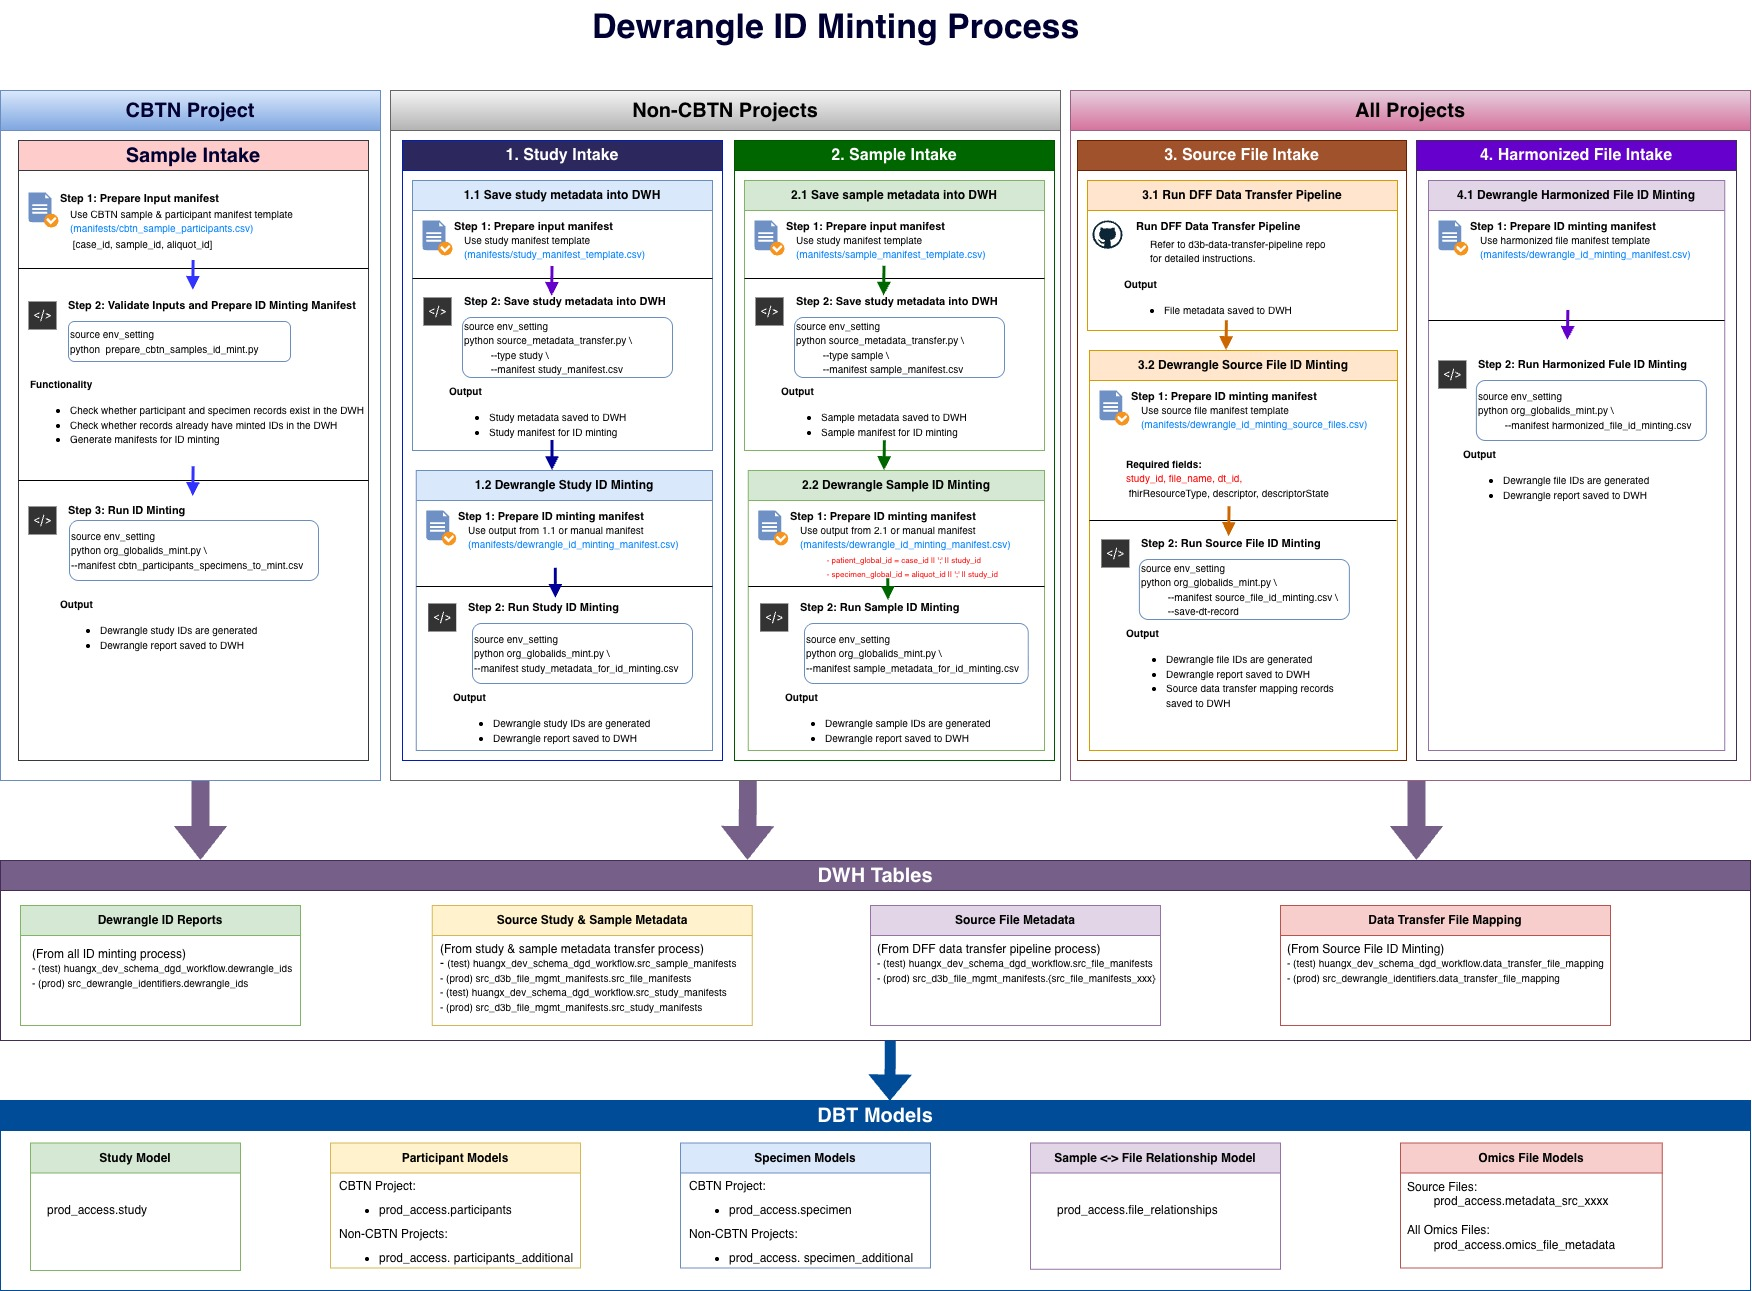
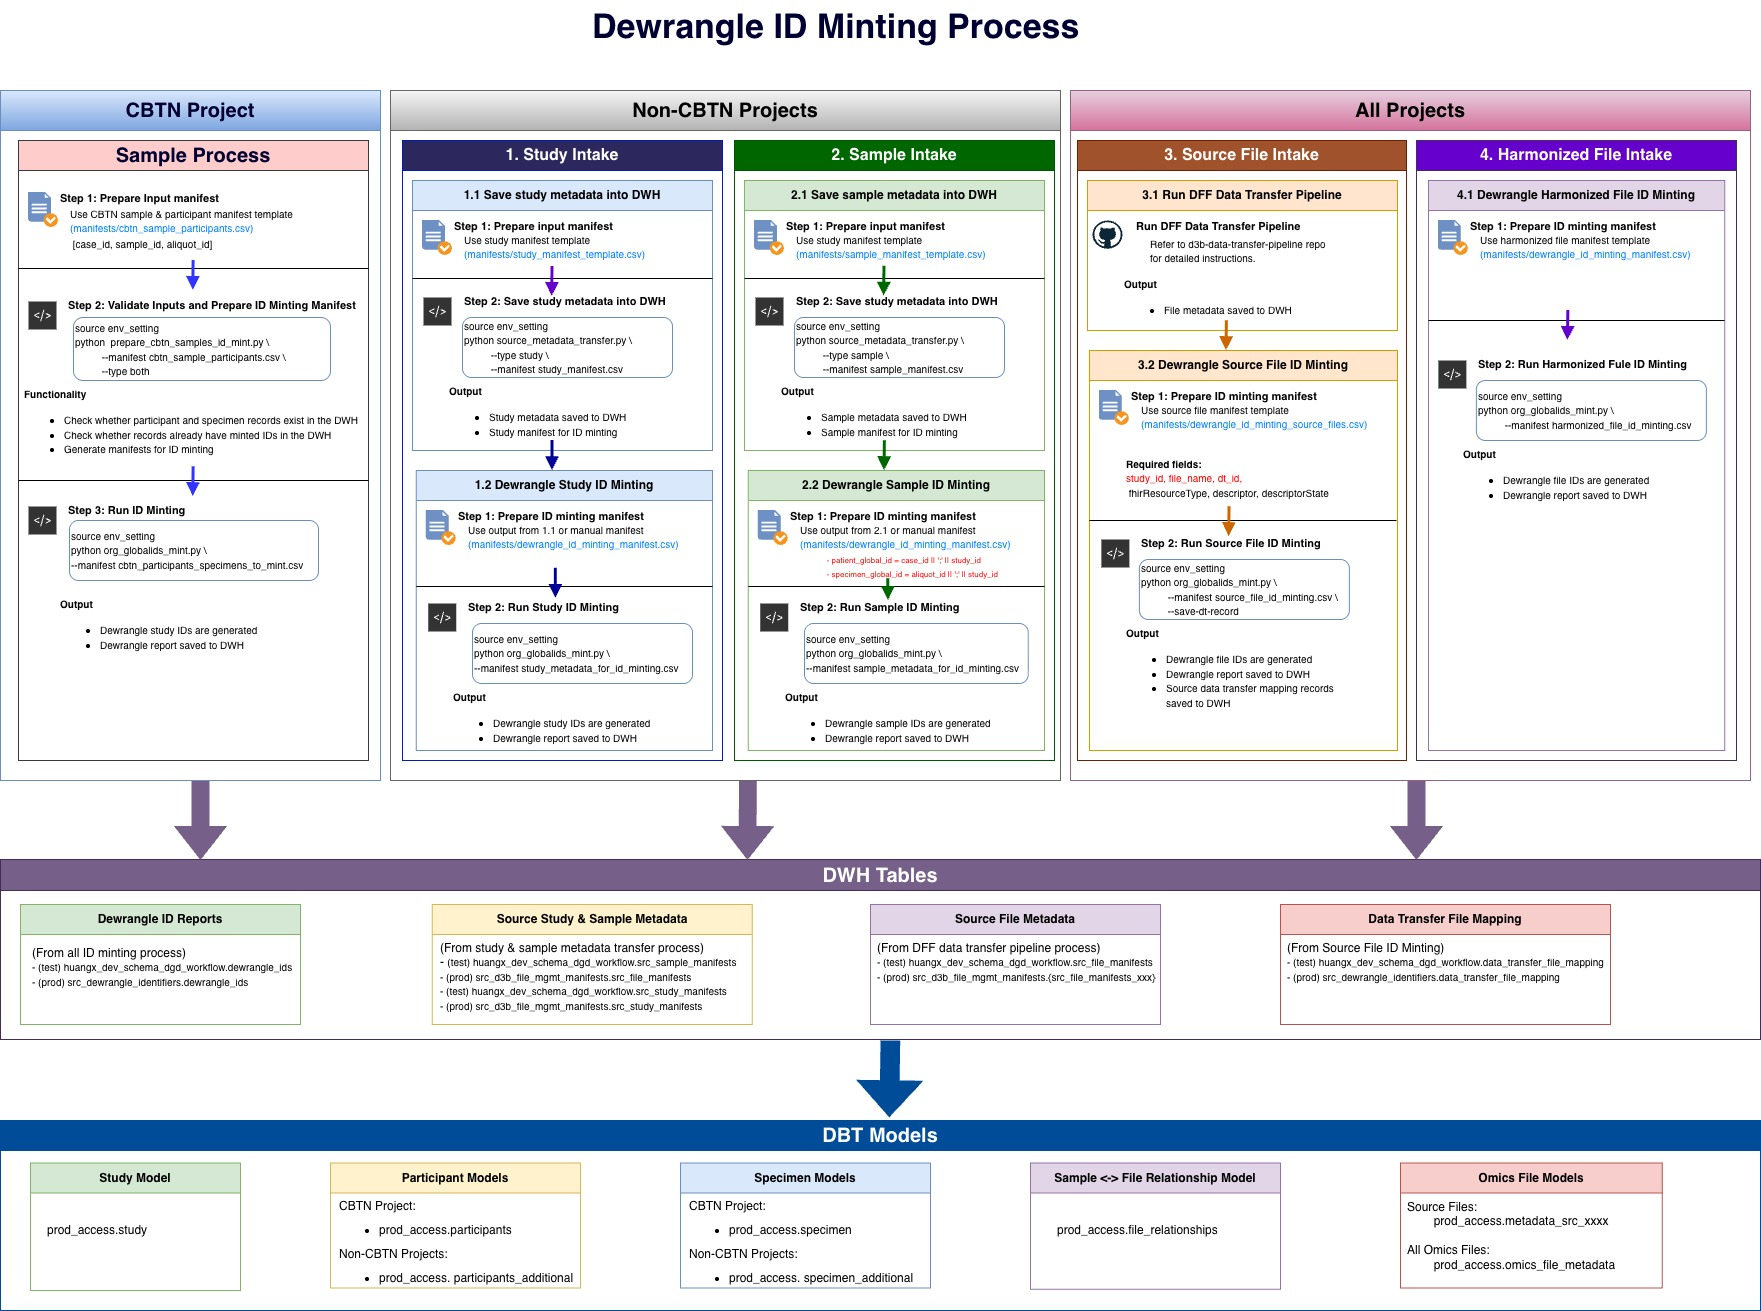
📝 Update readme

diff --git a/README.md b/README.md
@@ -27,7 +27,9 @@ Create a manifest using the CBTN sample & participants template: [`manifests/cbt
   
 ### Step 2: Validate Inputs and Prepare ID Minting Manifest
 ```bash
-python prepare_cbtn_samples_id_mint.py
+python  prepare_cbtn_samples_id_mint.py \
+	--manifest manifests/cbtn_sample_participants.csv \
+	--type both
 ```
 **Functionality**
 
